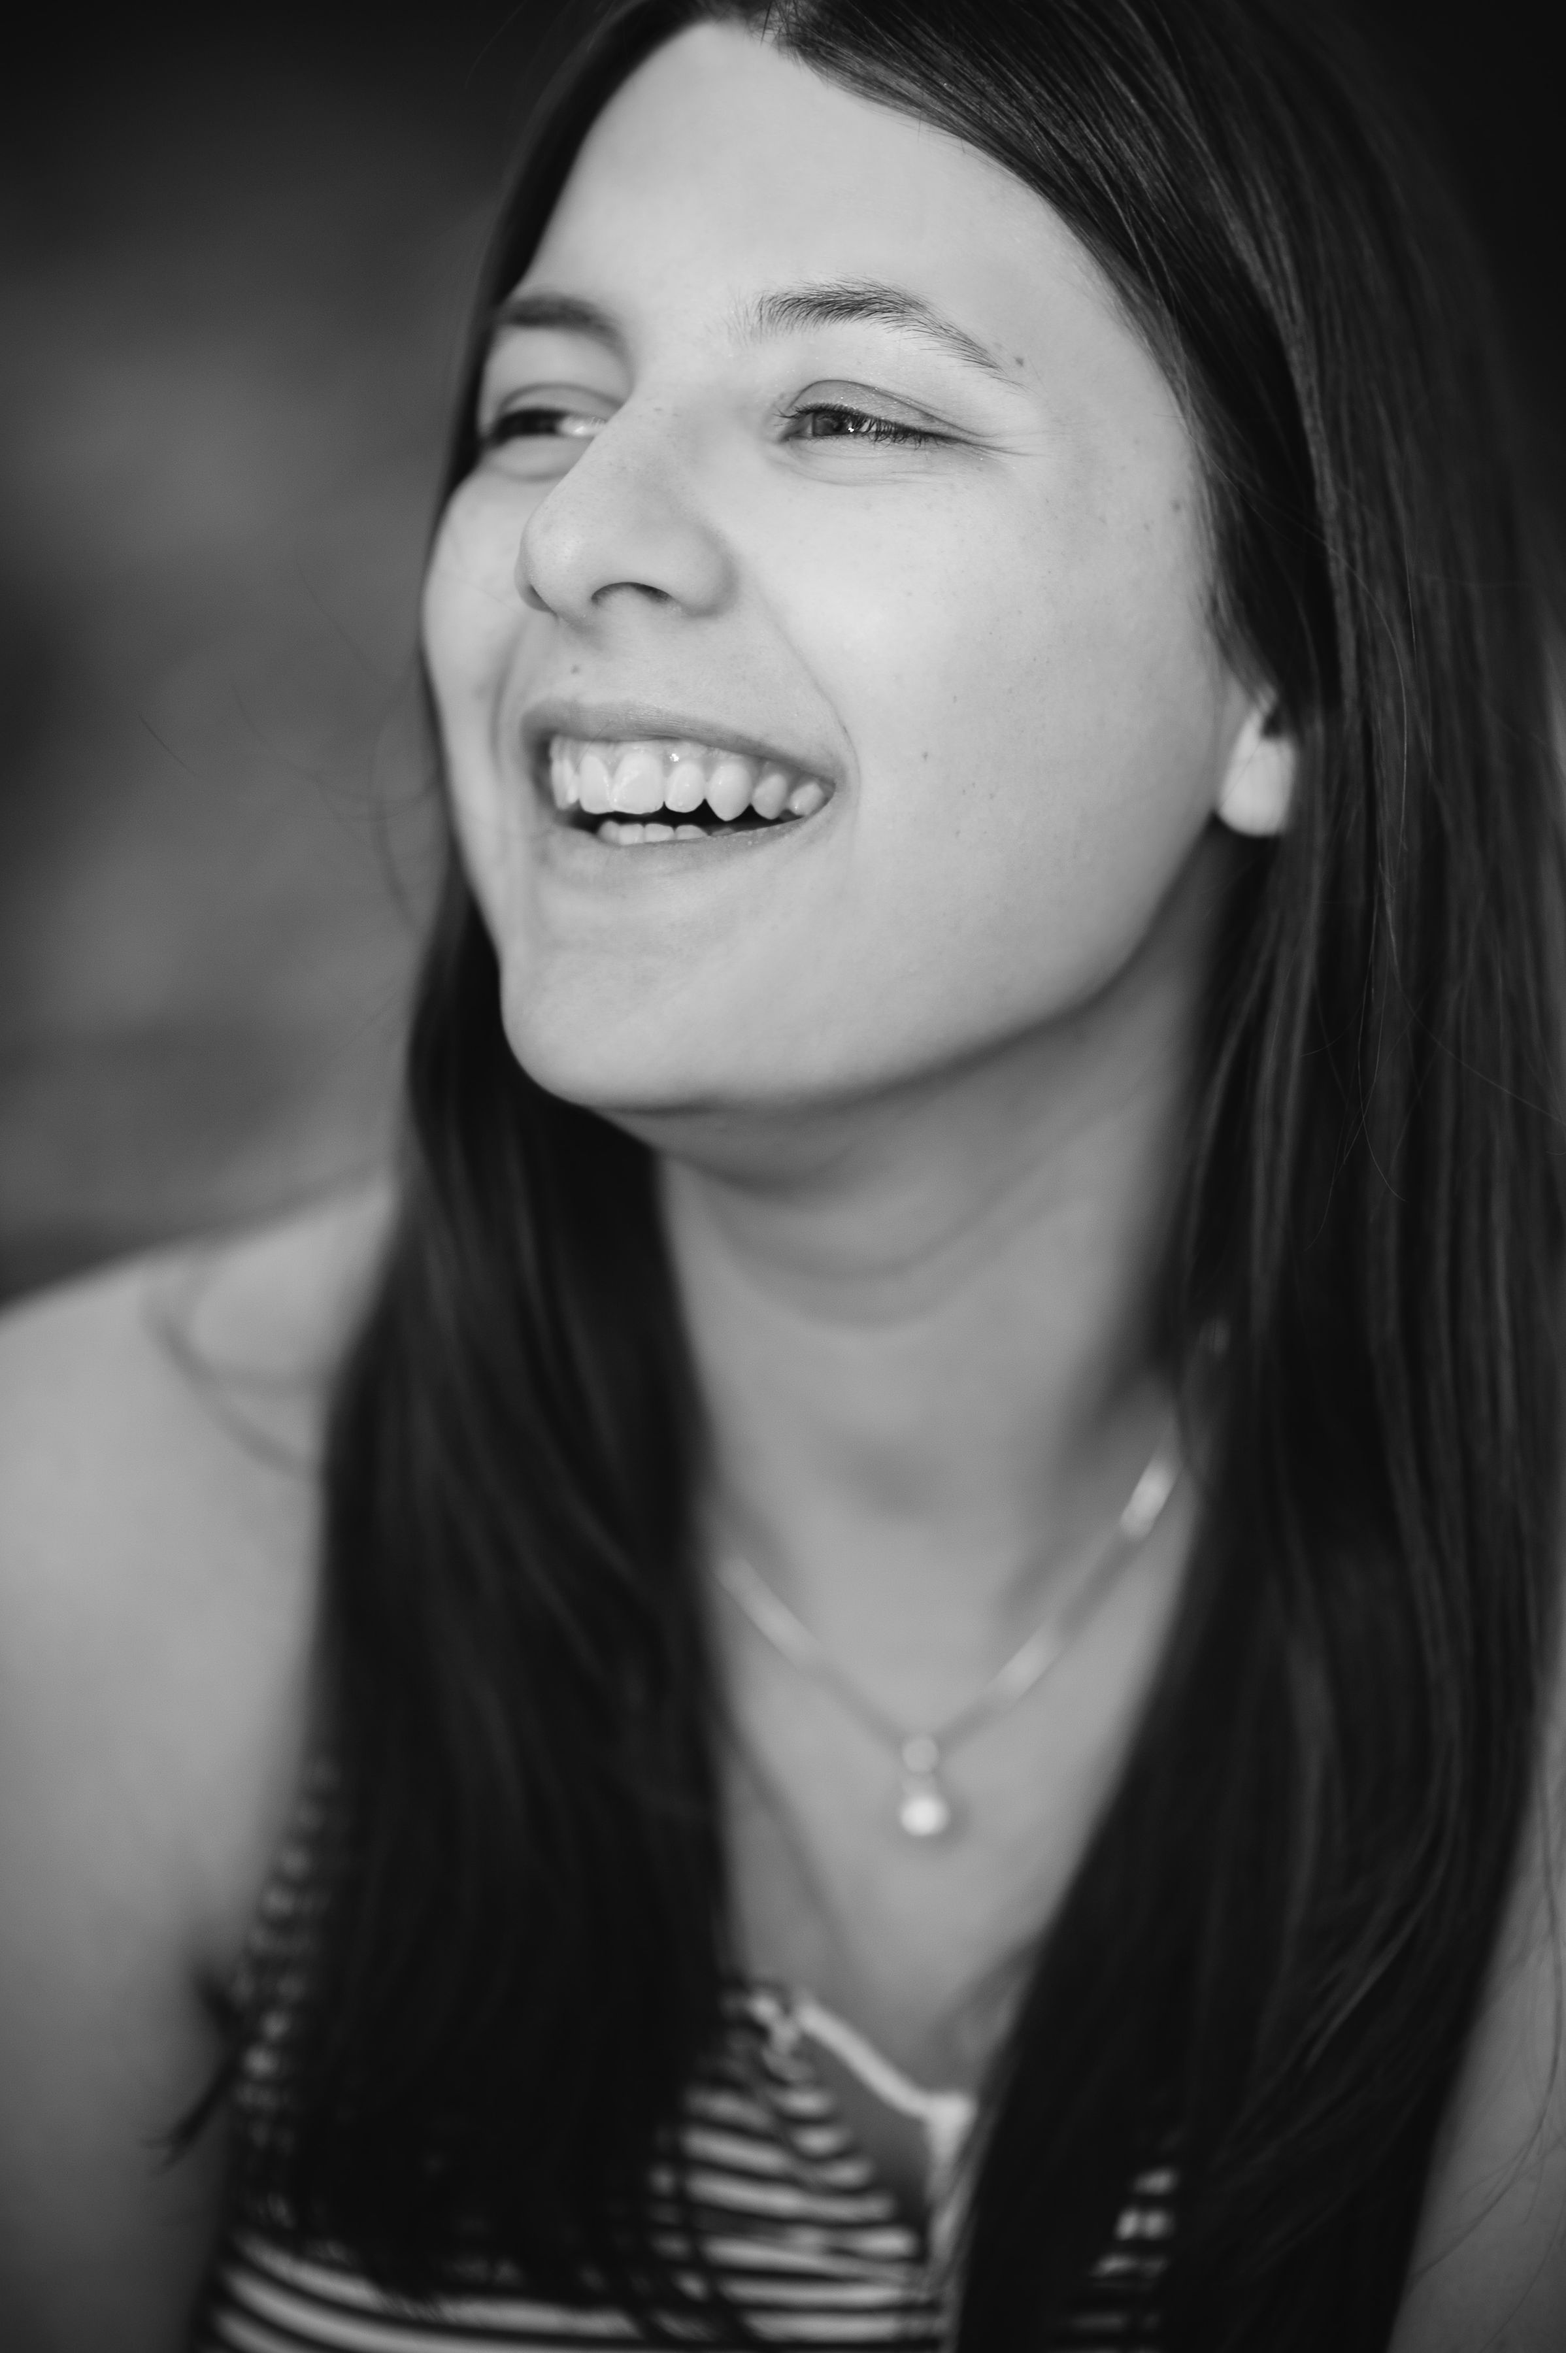
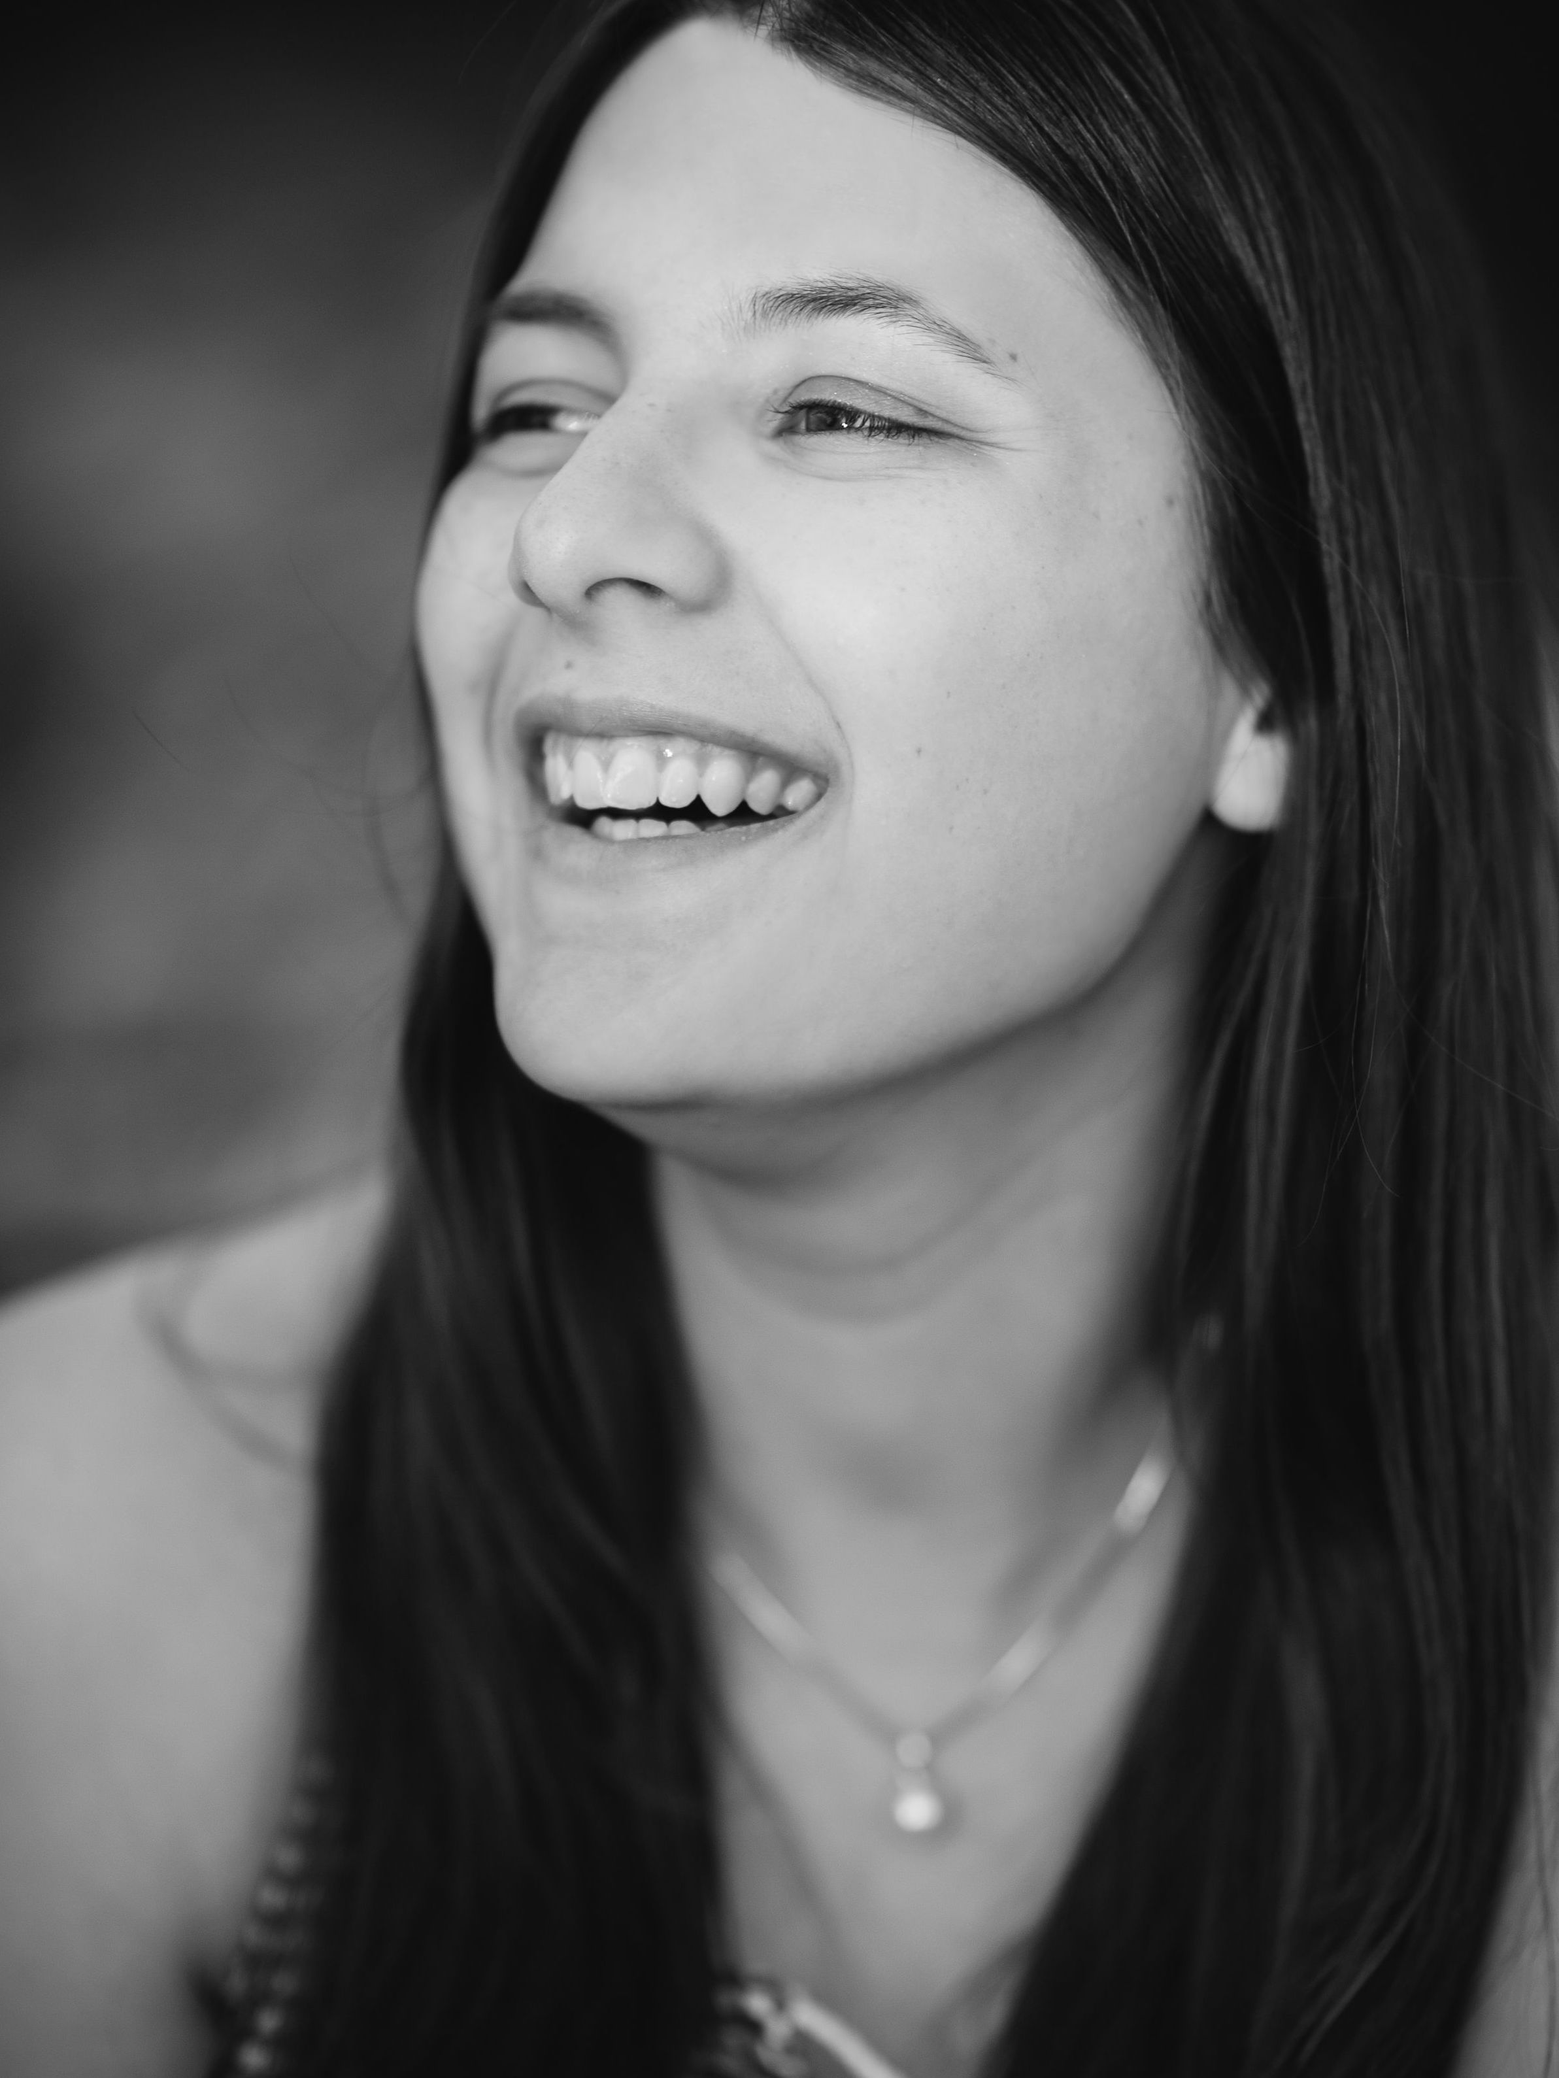
Add HTML structure of about page

diff --git a/about.html b/about.html
@@ -21,6 +21,8 @@
       href="https://fonts.googleapis.com/css2?family=Graduate&family=Montserrat:wght@200;300;400;500&display=swap"
       rel="stylesheet"
     />
+    <link rel="stylesheet" href="/source/style.css" />
+    <title>About Me | Front-end Developer Heindrikje Kuhs</title>
     <script
       src="https://kit.fontawesome.com/9f24d62db8.js"
       crossorigin="anonymous"
@@ -31,8 +33,6 @@
       integrity="sha384-ka7Sk0Gln4gmtz2MlQnikT1wXgYsOg+OMhuP+IlRH9sENBO0LRn5q+8nbTov4+1p"
       crossorigin="anonymous"
     ></script>
-    <link rel="stylesheet" href="/source/style.css" />
-    <title>About Me | Front-end Developer Heindrikje Kuhs</title>
   </head>
   <body>
     <nav class="navbar fixed-top navbar-expand-lg navbar-light bg-light">
@@ -69,24 +69,39 @@
         </div>
       </div>
     </nav>
-    <section class="hero">
+    <section class="hero-about">
       <div class="container">
         <div class="row">
           <div class="col-6">
             <h1>About.</h1>
-            <p>
+            <p class="short-description">
               I'm Heindrikje, a front-end developer, who lives in the Southwest
               of Germany.
             </p>
-            <a href="#">Learn more -></a>
+            <a href="#" class="learn-more">Learn more </a>
+            <i class="fa-solid fa-arrow-right-long"></i>
             <div class="navigation-links mt-5">
               <a href="#" class="work-link me-4">My work</a>
-              <a href="#" class="contact-link">Contact </a>
+              <a href="#" class="contact-link">Contact</a>
             </div>
           </div>
-          <div class="col-6"><img src="images/me.jpg" class="img-fluid" /></div>
+          <div class="col-6">
+            <img src="images/me.jpg" class="img-fluid portrait rounded" />
+          </div>
         </div>
       </div>
     </section>
+    <div class="container">
+      <div class="row">
+        <div class="col-3">That's me</div>
+        <div class="col-9">Lorem ipsum...</div>
+      </div>
+    </div>
+    <div class="container">
+      <div class="row">
+        <div class="col-3">Skills</div>
+        <div class="col-9">Lorem ipsum...</div>
+      </div>
+    </div>
   </body>
 </html>

diff --git a/source/style.css b/source/style.css
@@ -55,6 +55,11 @@ h3 {
   padding: 60px 100px 200px 150px;
 }
 
+.hero-about {
+  background: var(--secondary-color);
+  padding: 60px 100px;
+}
+
 .navigation-links a {
   border-radius: 4px;
   padding: 20px 25px;
@@ -99,6 +104,26 @@ h3 {
 
 .welcome a:hover {
   text-decoration: underline;
+}
+
+.short-description {
+  font-size: 24px;
+  opacity: 0.7;
+  margin: 30px 0;
+}
+
+.learn-more {
+  color: black;
+  opacity: 0.7;
+}
+
+.learn-more:hover {
+  color: var(--primary-color);
+}
+
+.portrait {
+  max-width: 400px;
+  margin-left: 80px;
 }
 
 @media (max-width: 1100px) {
